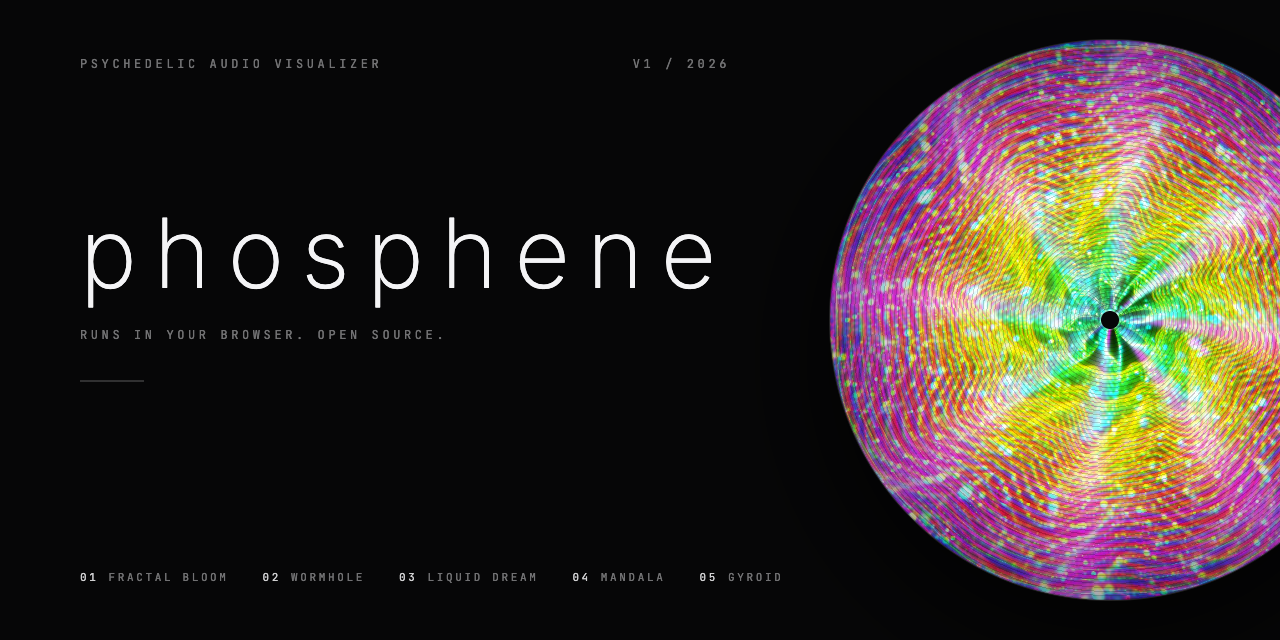
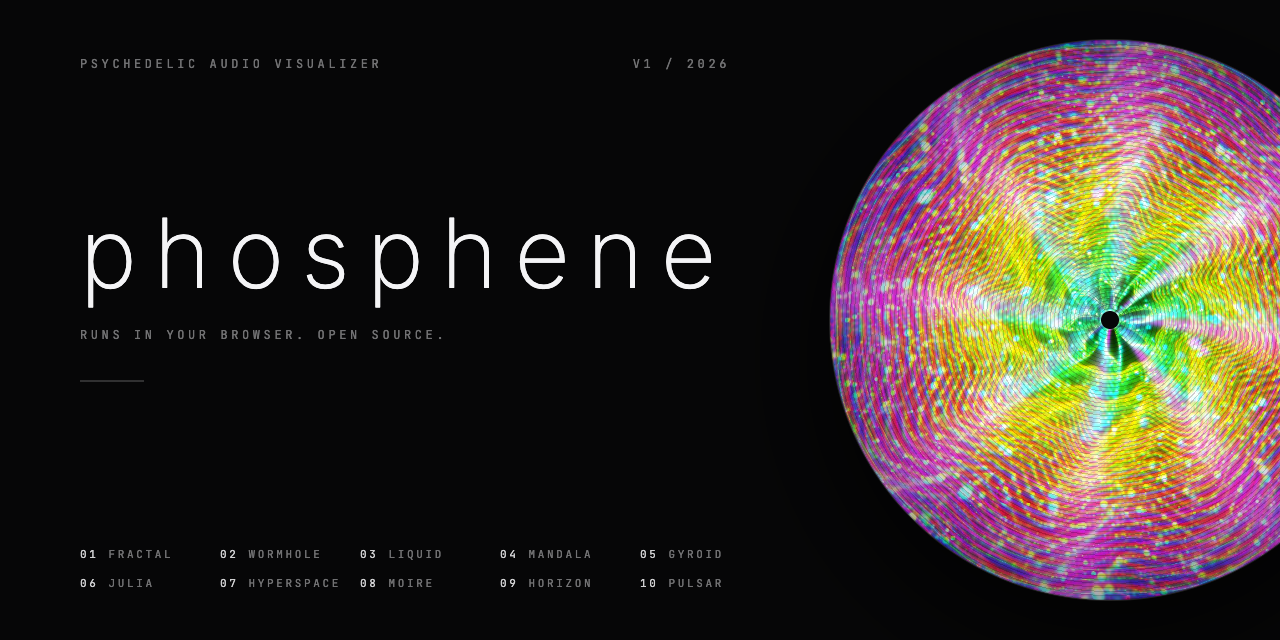
Add five scenes: Julia Bloom, Hyperspace, Moire, Neon Horizon, Pulsar
Pulsar draws from a new 512x64 spectrum history ring buffer. Number
keys now cover all ten scenes (0 is the tenth). NaN guard in the scene
pass so a bad pixel can never poison the feedback buffer.

diff --git a/src/shaders.js b/src/shaders.js
@@ -8,6 +8,11 @@ export const SCENES = [
   { name: 'Liquid Dream',     blurb: 'Domain-warped oil flow' },
   { name: 'Spectral Mandala', blurb: 'Every ring is a frequency band' },
   { name: 'Gyroid Flight',    blurb: 'Raymarched 3D lattice' },
+  { name: 'Julia Bloom',      blurb: 'Morphing Julia set fractal' },
+  { name: 'Hyperspace',       blurb: 'Star streaks at warp speed' },
+  { name: 'Moiré',            blurb: 'Op-art interference rings' },
+  { name: 'Neon Horizon',     blurb: 'Synthwave grid and spectrum skyline' },
+  { name: 'Pulsar',           blurb: 'Ridgelines from spectrum history' },
 ];
 
 export const VS = `#version 300 es
@@ -16,7 +21,7 @@ in vec2 a; void main(){ gl_Position = vec4(a,0.,1.); }`;
 const COMMON = `#version 300 es
 precision highp float;
 uniform vec2 R; uniform float T,B,M,H,BEAT,K,Z,C,TR; uniform int S;
-uniform sampler2D P, F;
+uniform sampler2D P, F, HIS; uniform float HROW;
 out vec4 o;
 #define TAU 6.28318530718
 vec3 pal(float t){ return .5+.5*cos(TAU*(t+vec3(0.,.33,.67))); }
@@ -27,6 +32,7 @@ float noise(vec2 p){ vec2 i=floor(p),f=fract(p); f=f*f*(3.-2.*f);
 float fbm(vec2 p){ float v=0.,a=.5; for(int i=0;i<5;i++){ v+=a*noise(p); p=rot(.5)*p*2.03; a*=.5; } return v; }
 vec2 kale(vec2 p,float n){ float a=atan(p.y,p.x), r=length(p), s=TAU/n; a=mod(a,s); a=abs(a-s*.5); return r*vec2(cos(a),sin(a)); }
 float spec(float x){ return texture(F,vec2(clamp(x,0.,1.),.5)).r; }
+float hist(float x,float age){ return texture(HIS,vec2(clamp(x,0.,1.),(HROW-age+.5)/64.)).r; }
 vec3 hue(vec3 c,float a){ const vec3 k=vec3(.57735); float ca=cos(a); return c*ca+cross(k,c)*sin(a)+k*dot(k,c)*(1.-ca); }
 `;
 
@@ -106,17 +112,106 @@ vec3 s4(vec2 p){                       // Gyroid lattice flight
   }
   return c;
 }
+vec3 s5(vec2 p){                       // Julia set, c traces the Mandelbrot cardioid edge
+  p *= rot(T*.03)*(2.5-.35*B);
+  float a = T*.06+.6*M+1.;
+  vec2 e1 = vec2(cos(a),sin(a)), e2 = vec2(cos(2.*a),sin(2.*a));
+  vec2 c = (e1*.5-e2*.25)*1.015;
+  vec2 z = p; float n = 0., tr = 1e3;
+  for(int i=0;i<80;i++){
+    z = vec2(z.x*z.x-z.y*z.y, 2.*z.x*z.y) + c;
+    tr = min(tr, abs(length(z)-.45-.3*spec(.08)));
+    if(dot(z,z)>16.) break;
+    n++;
+  }
+  vec3 col = vec3(0);
+  if(n<79.){
+    float sm = n - log2(log2(dot(z,z))) + 4.;
+    col = pal(sm*.04+T*.05+C)*pow(clamp(sm/28.,0.,1.),1.6)*1.6;
+  }
+  col += pal(tr*2.+C+.5)*.0025/(tr+.01)*(.3+1.2*B);
+  return col*.7;
+}
+vec3 s6(vec2 p){                       // Hyperspace star streaks
+  p *= rot(T*.05);
+  float a = atan(p.y,p.x)/TAU+.5, r = length(p);
+  vec3 c = vec3(0);
+  for(int l=0;l<3;l++){
+    float fl = float(l), n = 90.+fl*60.;
+    float u = a*n + fl*.37, id = floor(u);
+    float h = hash(vec2(id, fl));
+    float z = fract(h*7.1 + Z*(.25+.1*fl)*(.6+h));
+    float rr = z*z*1.5, len = .015+.05*z+.3*B*z*z;
+    float da = abs(fract(u)-.5)/n*TAU*r;
+    float d = max(abs(r-rr)-len, 0.);
+    float st = smoothstep(.0035*(1.+2.*z), 0., da)*smoothstep(.02, 0., d)*z;
+    c += mix(vec3(1), pal(h+C+T*.02), .6)*st*(.8+2.*spec(h*.6));
+  }
+  c += pal(T*.1+C)*.02/(r+.04)*(.3+B);
+  return c;
+}
+vec3 s7(vec2 p){                       // Moire interference
+  vec2 o1 = .28*vec2(sin(T*.3), cos(T*.23))*(1.+.6*B);
+  vec2 o2 = rot(T*.1)*-o1;
+  float f = 42.+18.*M;
+  float m = sin(length(p-o1)*f-T*2.)*sin(length(p-o2)*f+T*1.5);
+  float k = sin(kale(p,K).y*f*.5+T);
+  float ink = smoothstep(-.05,.1,m*(.75+.25*k));
+  vec3 c = mix(vec3(.01), mix(vec3(.9), pal(length(p)*.6+T*.05+C), .55+.4*H), ink);
+  return c*(.45+.8*spec(fract(length(p)*.6)));
+}
+vec3 s8(vec2 p){                       // Neon horizon
+  vec3 c = vec3(0);
+  float hz = -.06;
+  if(p.y < hz){
+    float d = hz-p.y;
+    vec2 g = vec2(p.x/d, 1./d + Z*3.)*.5;
+    vec2 f = abs(fract(g)-.5)/max(fwidth(g),1e-4);
+    float line = 1.-min(min(f.x,f.y)*.45,1.);
+    float e = spec(fract(abs(g.x)*.05));
+    c += pal(g.y*.02+C+.6)*line*(.5+1.6*e)*smoothstep(.02,.3,d)*(1.+B);
+    c += pal(C+.6)*.004/(d+.01);
+  } else {
+    vec2 q = p-vec2(0,.2);
+    float r = length(q), R0 = .3+.025*B;
+    float bars = q.y>.02 ? 1. : step(0., sin(q.y*70.+T*3.));
+    c += mix(pal(C+.05), pal(C+.3), clamp(q.y/R0*.5+.5,0.,1.))*smoothstep(R0, R0-.005, r)*bars*1.1;
+    c += pal(C+.1)*.012/(abs(r-R0-.01)+.015)*(.2+B);
+    float x = abs(p.x);
+    float m = hz + .3*spec(x*.35)*smoothstep(1.7,.25,x)*(.5+B);
+    c += mix(vec3(1), pal(x*.2+C+.5), .6)*smoothstep(.006, 0., abs(p.y-m));
+  }
+  return c;
+}
+vec3 s9(vec2 p){                       // Pulsar ridgelines, front to back with hidden-line removal
+  vec3 c = vec3(0);
+  for(int i=0;i<42;i++){
+    float fi = float(i);
+    float y = -.44 + fi*.021;
+    float x = abs(p.x);
+    float env = smoothstep(.62, .06, x);
+    float h = hist(.02+x*.55, fi*1.5)*env*env*.34 + .004*noise(vec2(p.x*40., fi*3.+T));
+    float d = p.y-(y+h);
+    float ink = smoothstep(.0032, .0012, abs(d));
+    c += mix(vec3(.92), pal(fi*.015+C+T*.03), .35+.4*H)*ink*(.7+.6*B)*smoothstep(.75,.55,x);
+    if(d < .003) break;
+  }
+  return c;
+}
 void main(){
   vec2 p = (gl_FragCoord.xy-.5*R)/R.y;
   vec3 col;
-  if(S==0) col=s0(p); else if(S==1) col=s1(p); else if(S==2) col=s2(p); else if(S==3) col=s3(p); else col=s4(p);
+  if(S==0) col=s0(p); else if(S==1) col=s1(p); else if(S==2) col=s2(p); else if(S==3) col=s3(p); else if(S==4) col=s4(p);
+  else if(S==5) col=s5(p); else if(S==6) col=s6(p); else if(S==7) col=s7(p); else if(S==8) col=s8(p); else col=s9(p);
+  if(any(isnan(col)) || any(isinf(col))) col = vec3(0);
   // feedback: zoom, swirl, hue-drift the previous frame
   vec2 q = p*rot(.003+.015*M*sin(T*.3));
-  float fz = S==2 ? .3 : 1.;                    // the liquid scene keeps its own detail
+  float fz = S==2 || S==5 ? .3 : S>=7 ? .15 : 1.;       // liquid, op-art and line scenes keep their detail
   q *= 1.-fz*(.008+.03*B+.04*BEAT);
   q += .002*vec2(sin(p.y*7.+T*.7),cos(p.x*7.-T*.6));
   vec3 prev = texture(P, q*vec2(R.y/R.x,1.)+.5).rgb;
   prev = max(hue(prev,.02+.1*H)*min(TR+.08*M,.97)-.004, 0.);
+  prev *= S==9 ? .45 : S==7 ? .6 : 1.;         // crisp lines for pulsar and moire
   o = vec4(col*.55+prev, 1.);
 }`;
 

diff --git a/src/renderer.js b/src/renderer.js
@@ -29,6 +29,14 @@ export class Renderer {
     gl.texImage2D(gl.TEXTURE_2D, 0, gl.R8, 512, 1, 0, gl.RED, gl.UNSIGNED_BYTE, new Uint8Array(512));
     this.texParams();
 
+    // 64 rows of spectrum history (a ring buffer) for scenes that draw the past.
+    this.histTex = gl.createTexture();
+    gl.bindTexture(gl.TEXTURE_2D, this.histTex);
+    gl.texImage2D(gl.TEXTURE_2D, 0, gl.R8, 512, 64, 0, gl.RED, gl.UNSIGNED_BYTE, new Uint8Array(512 * 64));
+    this.texParams();
+    gl.texParameteri(gl.TEXTURE_2D, gl.TEXTURE_WRAP_T, gl.REPEAT);
+    this.histRow = 0; this.frame = 0;
+
     this.bufs = [];
     this.resize();
   }
@@ -113,16 +121,25 @@ export class Renderer {
     if (u.S) gl.uniform1i(u.S, s.scene);
     if (u.P) gl.uniform1i(u.P, 0);
     if (u.F) gl.uniform1i(u.F, 1);
+    if (u.HIS) gl.uniform1i(u.HIS, 2);
+    f('HROW', this.histRow);
   }
 
   render(spectrum, state) {
     const gl = this.gl, [src, dst] = this.bufs;
     gl.bindTexture(gl.TEXTURE_2D, this.specTex);
     gl.texSubImage2D(gl.TEXTURE_2D, 0, 0, 0, 512, 1, gl.RED, gl.UNSIGNED_BYTE, spectrum);
+    if (++this.frame % 2 === 0) {
+      this.histRow = (this.histRow + 1) % 64;
+      gl.bindTexture(gl.TEXTURE_2D, this.histTex);
+      gl.texSubImage2D(gl.TEXTURE_2D, 0, 0, this.histRow, 512, 1, gl.RED, gl.UNSIGNED_BYTE, spectrum);
+    }
 
     gl.useProgram(this.scene.p); this.uniforms(this.scene.u, state);
     gl.activeTexture(gl.TEXTURE0); gl.bindTexture(gl.TEXTURE_2D, src.t);
     gl.activeTexture(gl.TEXTURE1); gl.bindTexture(gl.TEXTURE_2D, this.specTex);
+    gl.activeTexture(gl.TEXTURE2); gl.bindTexture(gl.TEXTURE_2D, this.histTex);
+    gl.activeTexture(gl.TEXTURE0);
     gl.bindFramebuffer(gl.FRAMEBUFFER, dst.f); gl.viewport(0, 0, this.W, this.H);
     gl.drawArrays(gl.TRIANGLES, 0, 3);
 

diff --git a/docs/cover/cover.html b/docs/cover/cover.html
@@ -10,7 +10,8 @@
   h1{margin:0;font-weight:200;font-size:96px;letter-spacing:.18em;line-height:1}
   .sub{margin-top:26px}
   .rule{width:64px;height:1px;background:rgba(244,244,246,.35);margin:38px 0 0}
-  .list{position:absolute;left:80px;bottom:56px;display:flex;gap:34px;font-size:11px;letter-spacing:.24em}
+  .list{position:absolute;left:80px;bottom:50px;display:flex;flex-direction:column;gap:14px;font-size:11px;letter-spacing:.24em}
+  .list div{display:grid;grid-template-columns:repeat(5,140px);white-space:nowrap;gap:0}
   .list b{font-weight:400;color:rgba(244,244,246,.85);margin-right:10px}
   .disc{position:absolute;right:-110px;top:50%;width:560px;height:560px;margin-top:-280px;border-radius:50%;overflow:hidden;
         background:url(../images/scene-mandala.jpg) center/cover;box-shadow:0 0 0 1px rgba(255,255,255,.12),0 40px 120px rgba(0,0,0,.8)}
@@ -27,6 +28,7 @@
     <div class="rule"></div>
   </div>
   <div class="list mono">
-    <span><b>01</b>Fractal bloom</span><span><b>02</b>Wormhole</span><span><b>03</b>Liquid dream</span><span><b>04</b>Mandala</span><span><b>05</b>Gyroid</span>
+    <div><span><b>01</b>Fractal</span><span><b>02</b>Wormhole</span><span><b>03</b>Liquid</span><span><b>04</b>Mandala</span><span><b>05</b>Gyroid</span></div>
+    <div><span><b>06</b>Julia</span><span><b>07</b>Hyperspace</span><span><b>08</b>Moire</span><span><b>09</b>Horizon</span><span><b>10</b>Pulsar</span></div>
   </div>
 </body></html>

diff --git a/index.html b/index.html
@@ -7,7 +7,7 @@
 <meta name="apple-mobile-web-app-capable" content="yes">
 <meta name="apple-mobile-web-app-status-bar-style" content="black-translucent">
 <title>Phosphene · Psychedelic audio visualizer</title>
-<meta name="description" content="A psychedelic audio visualizer that runs in your browser. Five GPU shader worlds that react to Spotify, YouTube, your mic or any audio file.">
+<meta name="description" content="A psychedelic audio visualizer that runs in your browser. Ten GPU shader worlds that react to Spotify, YouTube, your mic or any audio file.">
 <meta property="og:title" content="Phosphene">
 <meta property="og:description" content="A psychedelic audio visualizer that runs in your browser.">
 <meta property="og:type" content="website">
@@ -111,7 +111,7 @@
   <div class="glass keys-card">
     <header><h2>Keyboard shortcuts</h2><button class="icon-btn" id="keysClose" title="Close"><svg viewBox="0 0 24 24"><path d="M6 6l12 12M18 6L6 18"/></svg></button></header>
     <dl>
-      <dt><kbd>1</kbd> to <kbd>5</kbd></dt><dd>Jump to a scene</dd>
+      <dt><kbd>1</kbd> to <kbd>0</kbd></dt><dd>Jump to a scene (0 is the tenth)</dd>
       <dt><kbd>←</kbd> <kbd>→</kbd> <kbd>Space</kbd></dt><dd>Previous / next scene</dd>
       <dt><kbd>A</kbd></dt><dd>Auto-cycle on or off</dd>
       <dt><kbd>C</kbd></dt><dd>Shift colors</dd>

diff --git a/src/main.js b/src/main.js
@@ -212,7 +212,8 @@ addEventListener('keydown', e => {
   const k = e.key.toLowerCase();
   if (k === 'escape') { closeSettings(); $('keys').classList.remove('open'); return; }
   if (body.classList.contains('welcome') && k !== '?') return;
-  if (k >= '1' && k <= String(SCENES.length)) setScene(+k - 1);
+  const sk = '1234567890'.indexOf(k);
+  if (e.key.length === 1 && sk >= 0 && sk < SCENES.length) setScene(sk);
   else if (k === ' ' || k === 'arrowright') { e.preventDefault(); setScene(state.scene + 1); }
   else if (k === 'arrowleft') setScene(state.scene - 1);
   else if (k === 'a') { setAuto(!auto); toast(auto ? 'Auto-cycle on' : 'Auto-cycle off'); }

diff --git a/README.md b/README.md
@@ -2,7 +2,7 @@
 
 # phosphene
 
-A psychedelic audio visualizer that runs in your browser. Five GPU shader worlds (fractals, a wormhole, liquid light, a spectral mandala and a raymarched lattice) that move with whatever you are listening to: Spotify in a browser tab, YouTube, your microphone or a local file.
+A psychedelic audio visualizer that runs in your browser. Ten GPU shader worlds (fractals, a wormhole, liquid light, a raymarched lattice, warp-speed stars, op-art, a synthwave horizon and more) that move with whatever you are listening to: Spotify in a browser tab, YouTube, your microphone or a local file.
 
 <p align="center"><b>Open it: <a href="LIVE_URL">LIVE_HOST</a></b><br>Desktop Chrome, Edge or Arc for tab audio. Phones work with the mic.</p>
 
@@ -19,7 +19,15 @@ No install, no account, no build step. Everything runs on your device and no aud
   </tr>
   <tr>
     <td><img src="docs/images/scene-gyroid.jpg" alt="05 Gyroid Flight"></td>
-    <td><img src="docs/images/dock.jpg" alt="The player dock"></td>
+    <td><img src="docs/images/scene-julia.jpg" alt="06 Julia Bloom"></td>
+  </tr>
+  <tr>
+    <td><img src="docs/images/scene-hyperspace.jpg" alt="07 Hyperspace"></td>
+    <td><img src="docs/images/scene-moire.jpg" alt="08 Moire"></td>
+  </tr>
+  <tr>
+    <td><img src="docs/images/scene-horizon.jpg" alt="09 Neon Horizon"></td>
+    <td><img src="docs/images/scene-pulsar.jpg" alt="10 Pulsar"></td>
   </tr>
 </table>
 
@@ -32,6 +40,11 @@ No install, no account, no build step. Everything runs on your device and no aud
 | 03 | Liquid Dream | Three layers of domain-warped fractal noise | Flow offset on the bass, highlights on the highs |
 | 04 | Spectral Mandala | Fourteen rings, one per frequency band | Each ring's wobble is its band's energy |
 | 05 | Gyroid Flight | Raymarched gyroid lattice with a carved flight path | Wall thickness on the bass, glow along the spectrum |
+| 06 | Julia Bloom | Julia set whose parameter traces the edge of the Mandelbrot cardioid | The mids push the shape, the bass breathes the zoom |
+| 07 | Hyperspace | Three layers of star streaks in polar space | Warp speed and streak length on the bass |
+| 08 | Moiré | Two drifting ring fields multiplied into op-art interference | Ring density on the mids, color on the highs |
+| 09 | Neon Horizon | Perspective grid flyover, striped sun, spectrum skyline | The skyline is the spectrum, the sun pulses on the kick |
+| 10 | Pulsar | 42 ridgelines with hidden-line removal, after the 1979 pulsar plot | Each line is the spectrum from a moment ago, so the past scrolls back |
 
 Every scene draws into a feedback buffer. Each frame the previous image is zoomed, swirled and hue-shifted a little before the new one is laid on top, which is where the trails and the melting come from. Kicks punch the zoom and split the color channels.
 
@@ -42,6 +55,9 @@ Every scene draws into a feedback buffer. Each frame the previous image is zoome
     <td width="50%"><img src="docs/images/welcome.jpg" alt="Choose an audio source"></td>
     <td width="50%"><img src="docs/images/settings.jpg" alt="Settings"></td>
   </tr>
+  <tr>
+    <td colspan="2"><img src="docs/images/dock.jpg" alt="The player dock"></td>
+  </tr>
 </table>
 
 Pick a source on the first screen:
@@ -51,7 +67,7 @@ Pick a source on the first screen:
 - **Audio file**. Pick or drag in an MP3, WAV, FLAC or M4A. It plays through your speakers with a scrub bar.
 - **Just watch**. A built-in silent beat, no permissions needed.
 
-Keyboard: `1` to `5` jump to a scene, `←` `→` or `Space` change scene, `A` toggles auto-cycle, `C` shifts the palette, `[` `]` change the symmetry, `↑` `↓` change sensitivity, `F` fullscreen, `H` hides everything, `?` lists all of this.
+Keyboard: `1` to `9` and `0` jump to a scene (`0` is the tenth), `←` `→` or `Space` change scene, `A` toggles auto-cycle, `C` shifts the palette, `[` `]` change the symmetry, `↑` `↓` change sensitivity, `F` fullscreen, `H` hides everything, `?` lists all of this.
 
 Touch: swipe sideways to change scenes, tap to show or hide the controls, double-tap for fullscreen where the browser allows it.
 
@@ -67,7 +83,7 @@ Handy for streaming (OBS browser source), projectors and sharing a look:
 
 | Parameter | Effect |
 |---|---|
-| `?scene=3` | Start on a scene (1 to 5) and skip the source picker |
+| `?scene=3` | Start on a scene (1 to 10) and skip the source picker |
 | `?ui=0` | Clean output: no dock, no toasts, demo beat. Good for OBS |
 | `?auto=0` | Stay on one scene |
 | `?colors=0.45` | Fix the starting palette (0 to 1). Otherwise it is random each visit |
@@ -82,7 +98,7 @@ Example: `LIVE_URL/?scene=5&ui=0&auto=0`
 - **Audio in.** Tab audio comes from `getDisplayMedia` (the video track is dropped right away), the mic from `getUserMedia` with echo cancellation, noise suppression and auto gain turned off so the music is not mangled. Files go through a `MediaElementSource`. Live sources are never connected to the speakers, so there is no feedback loop.
 - **Analyser.** A Web Audio `AnalyserNode` with a 1024-point FFT gives 512 frequency bins per frame.
 - **Features.** Bass, mid and high levels are averaged from bin ranges and auto-gained against a slowly decaying peak, so quiet and loud tracks both fill the screen. A beat is a bass spike well above its running average, with a short refractory window.
-- **Scene shader.** One GLSL ES 3.00 fragment shader holds all five scenes. The 512 bins are uploaded each frame as a 512x1 texture so a shader can read any frequency directly. Feedback lives in two ping-ponged half-float render targets.
+- **Scene shader.** One GLSL ES 3.00 fragment shader holds all ten scenes. The 512 bins are uploaded each frame as a 512x1 texture so a shader can read any frequency directly, and a 512x64 ring buffer keeps the last couple of seconds of spectrum for scenes that draw the past (Pulsar). Feedback lives in two ping-ponged half-float render targets.
 - **Display pass.** Chromatic aberration that grows with the kick, exponential tone mapping, a saturation and contrast curve and a vignette.
 - **Adaptive quality.** In Auto mode the renderer watches the frame time and steps the internal resolution down or back up, so phones stay smooth and do not cook.
 
@@ -127,8 +143,8 @@ Model: Claude Opus 5.5 in Claude Code. Measured from the session transcript: SES
 ## Repository layout
 
 - `index.html` the app shell (welcome screen, dock, settings)
-- `src/shaders.js` all GLSL: the five scenes, feedback and display passes
-- `src/renderer.js` WebGL2 setup, feedback buffers, adaptive resolution
+- `src/shaders.js` all GLSL: the ten scenes, feedback and display passes
+- `src/renderer.js` WebGL2 setup, feedback buffers, spectrum history, adaptive resolution
 - `src/audio.js` sources, FFT analysis, levels and beat detection
 - `src/main.js` UI, controls, gestures, URL options and the frame loop
 - `src/styles.css` the interface
